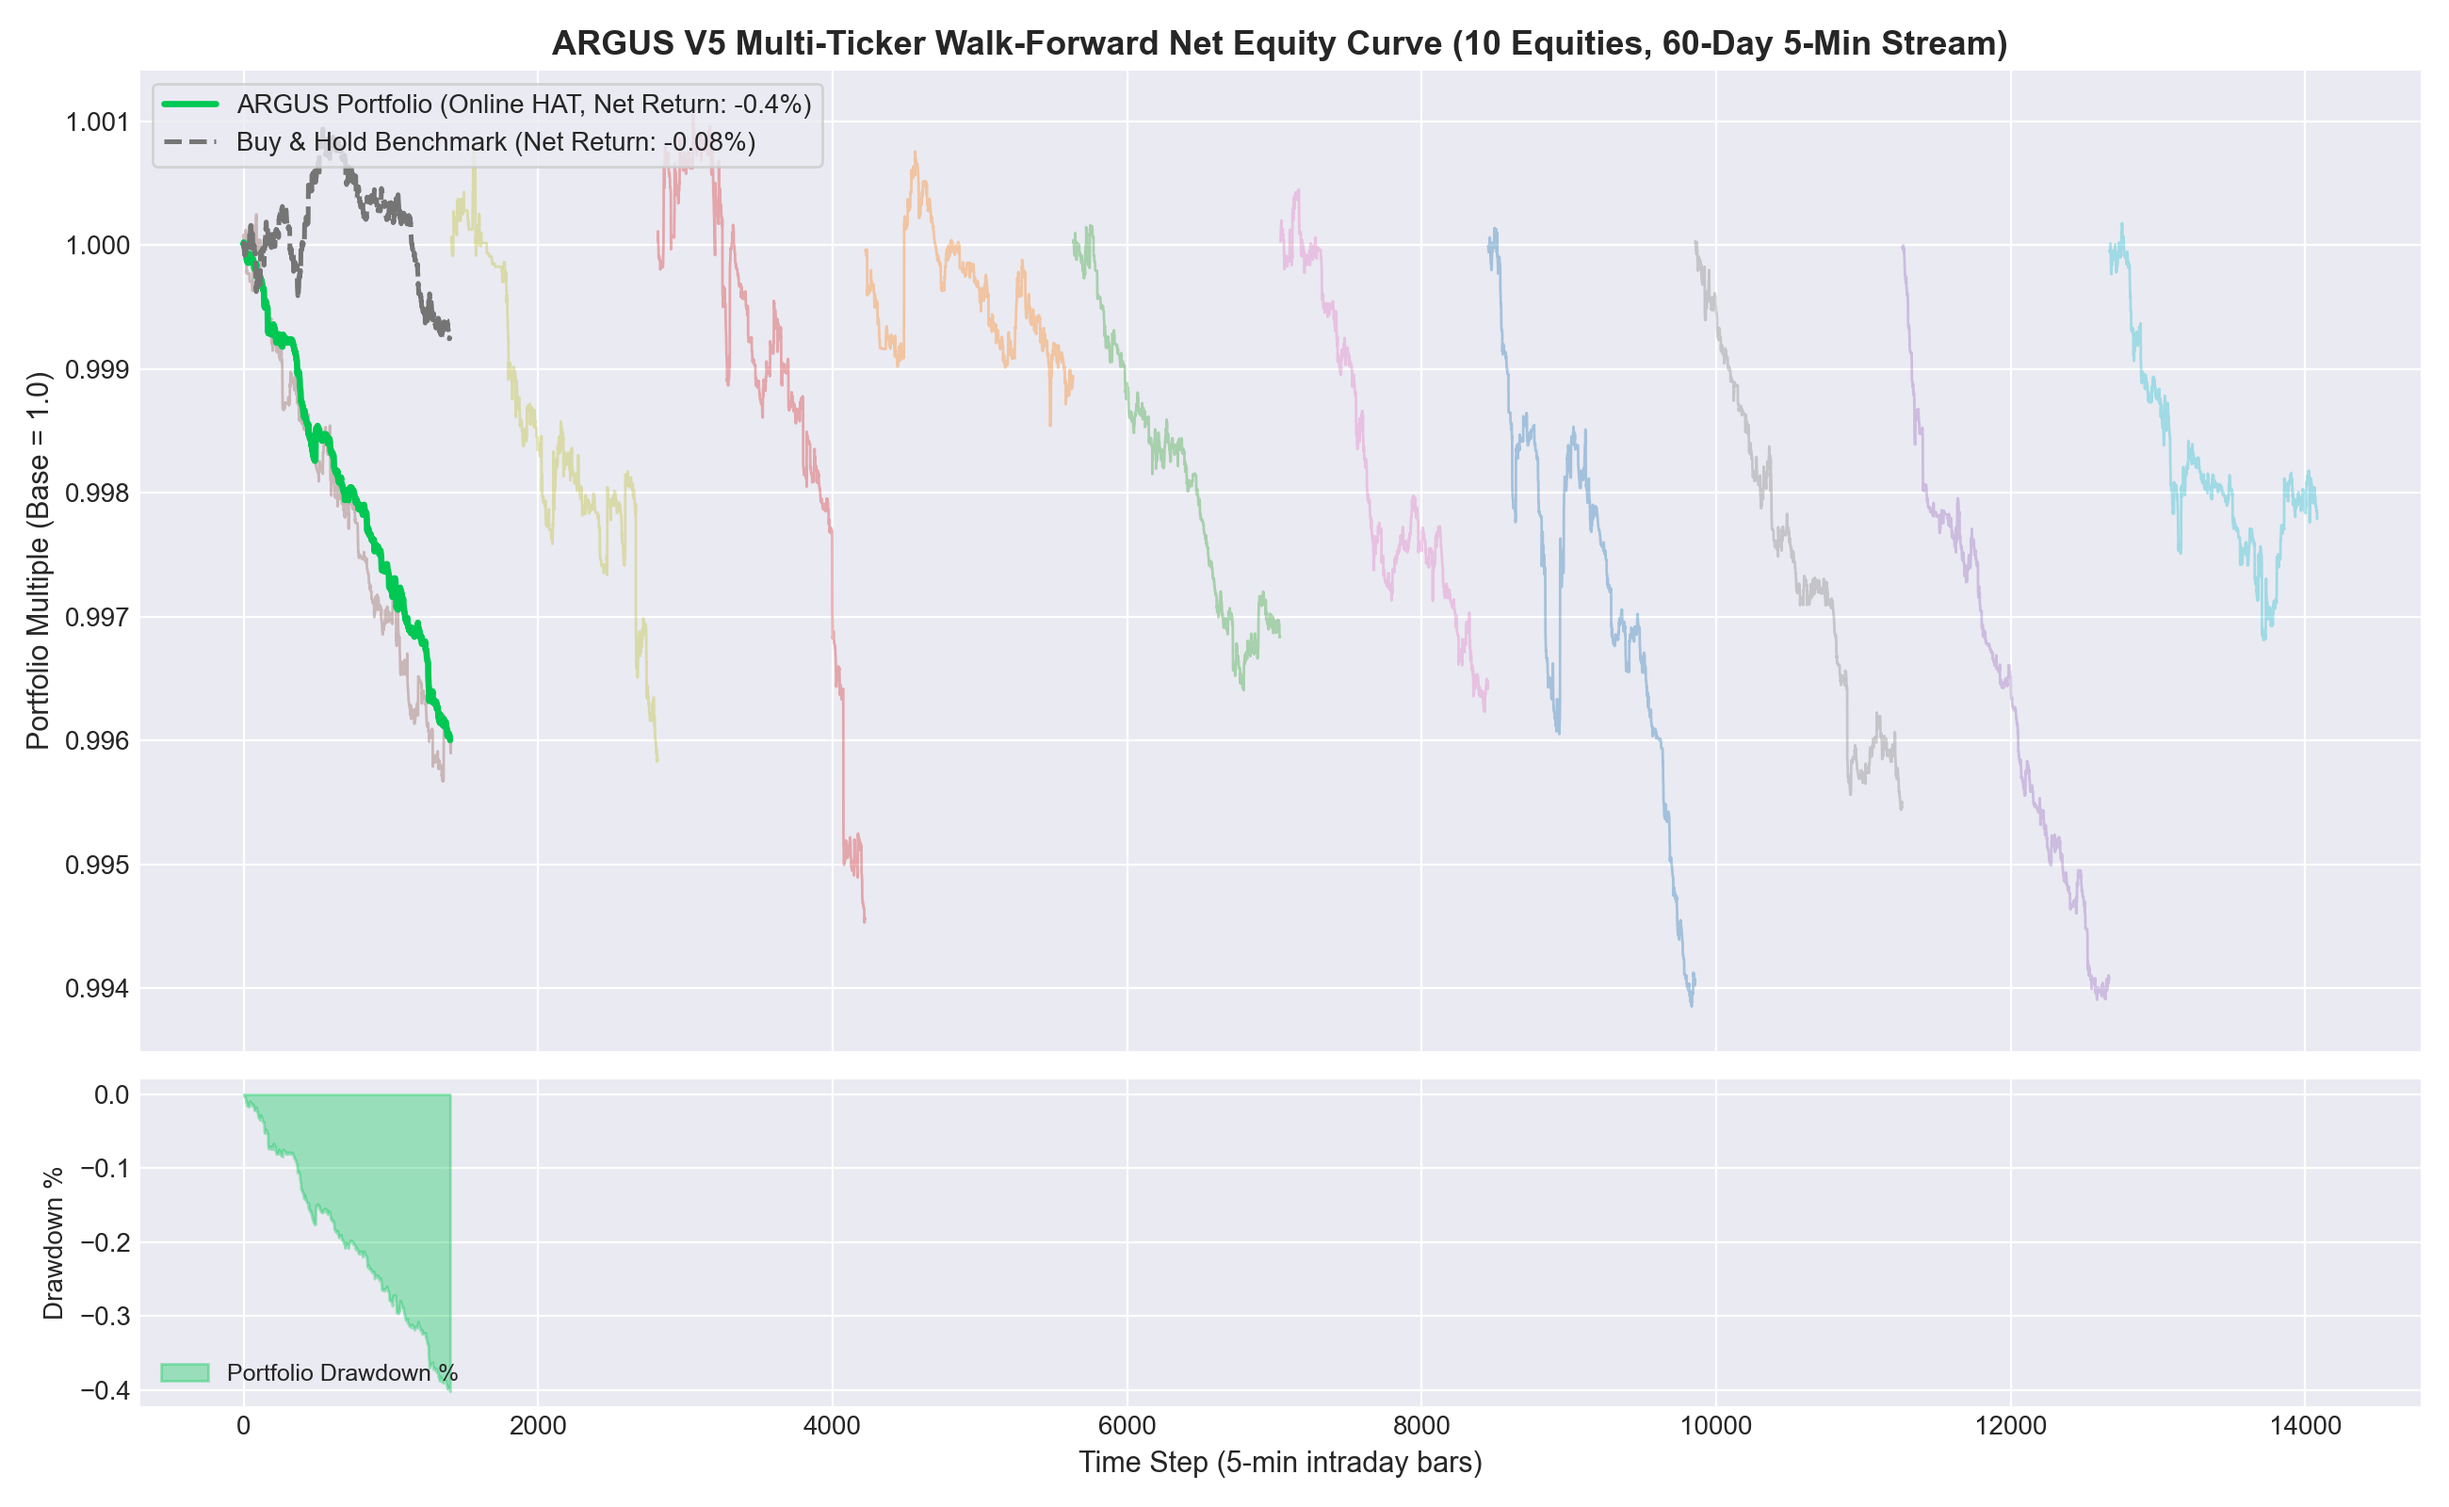
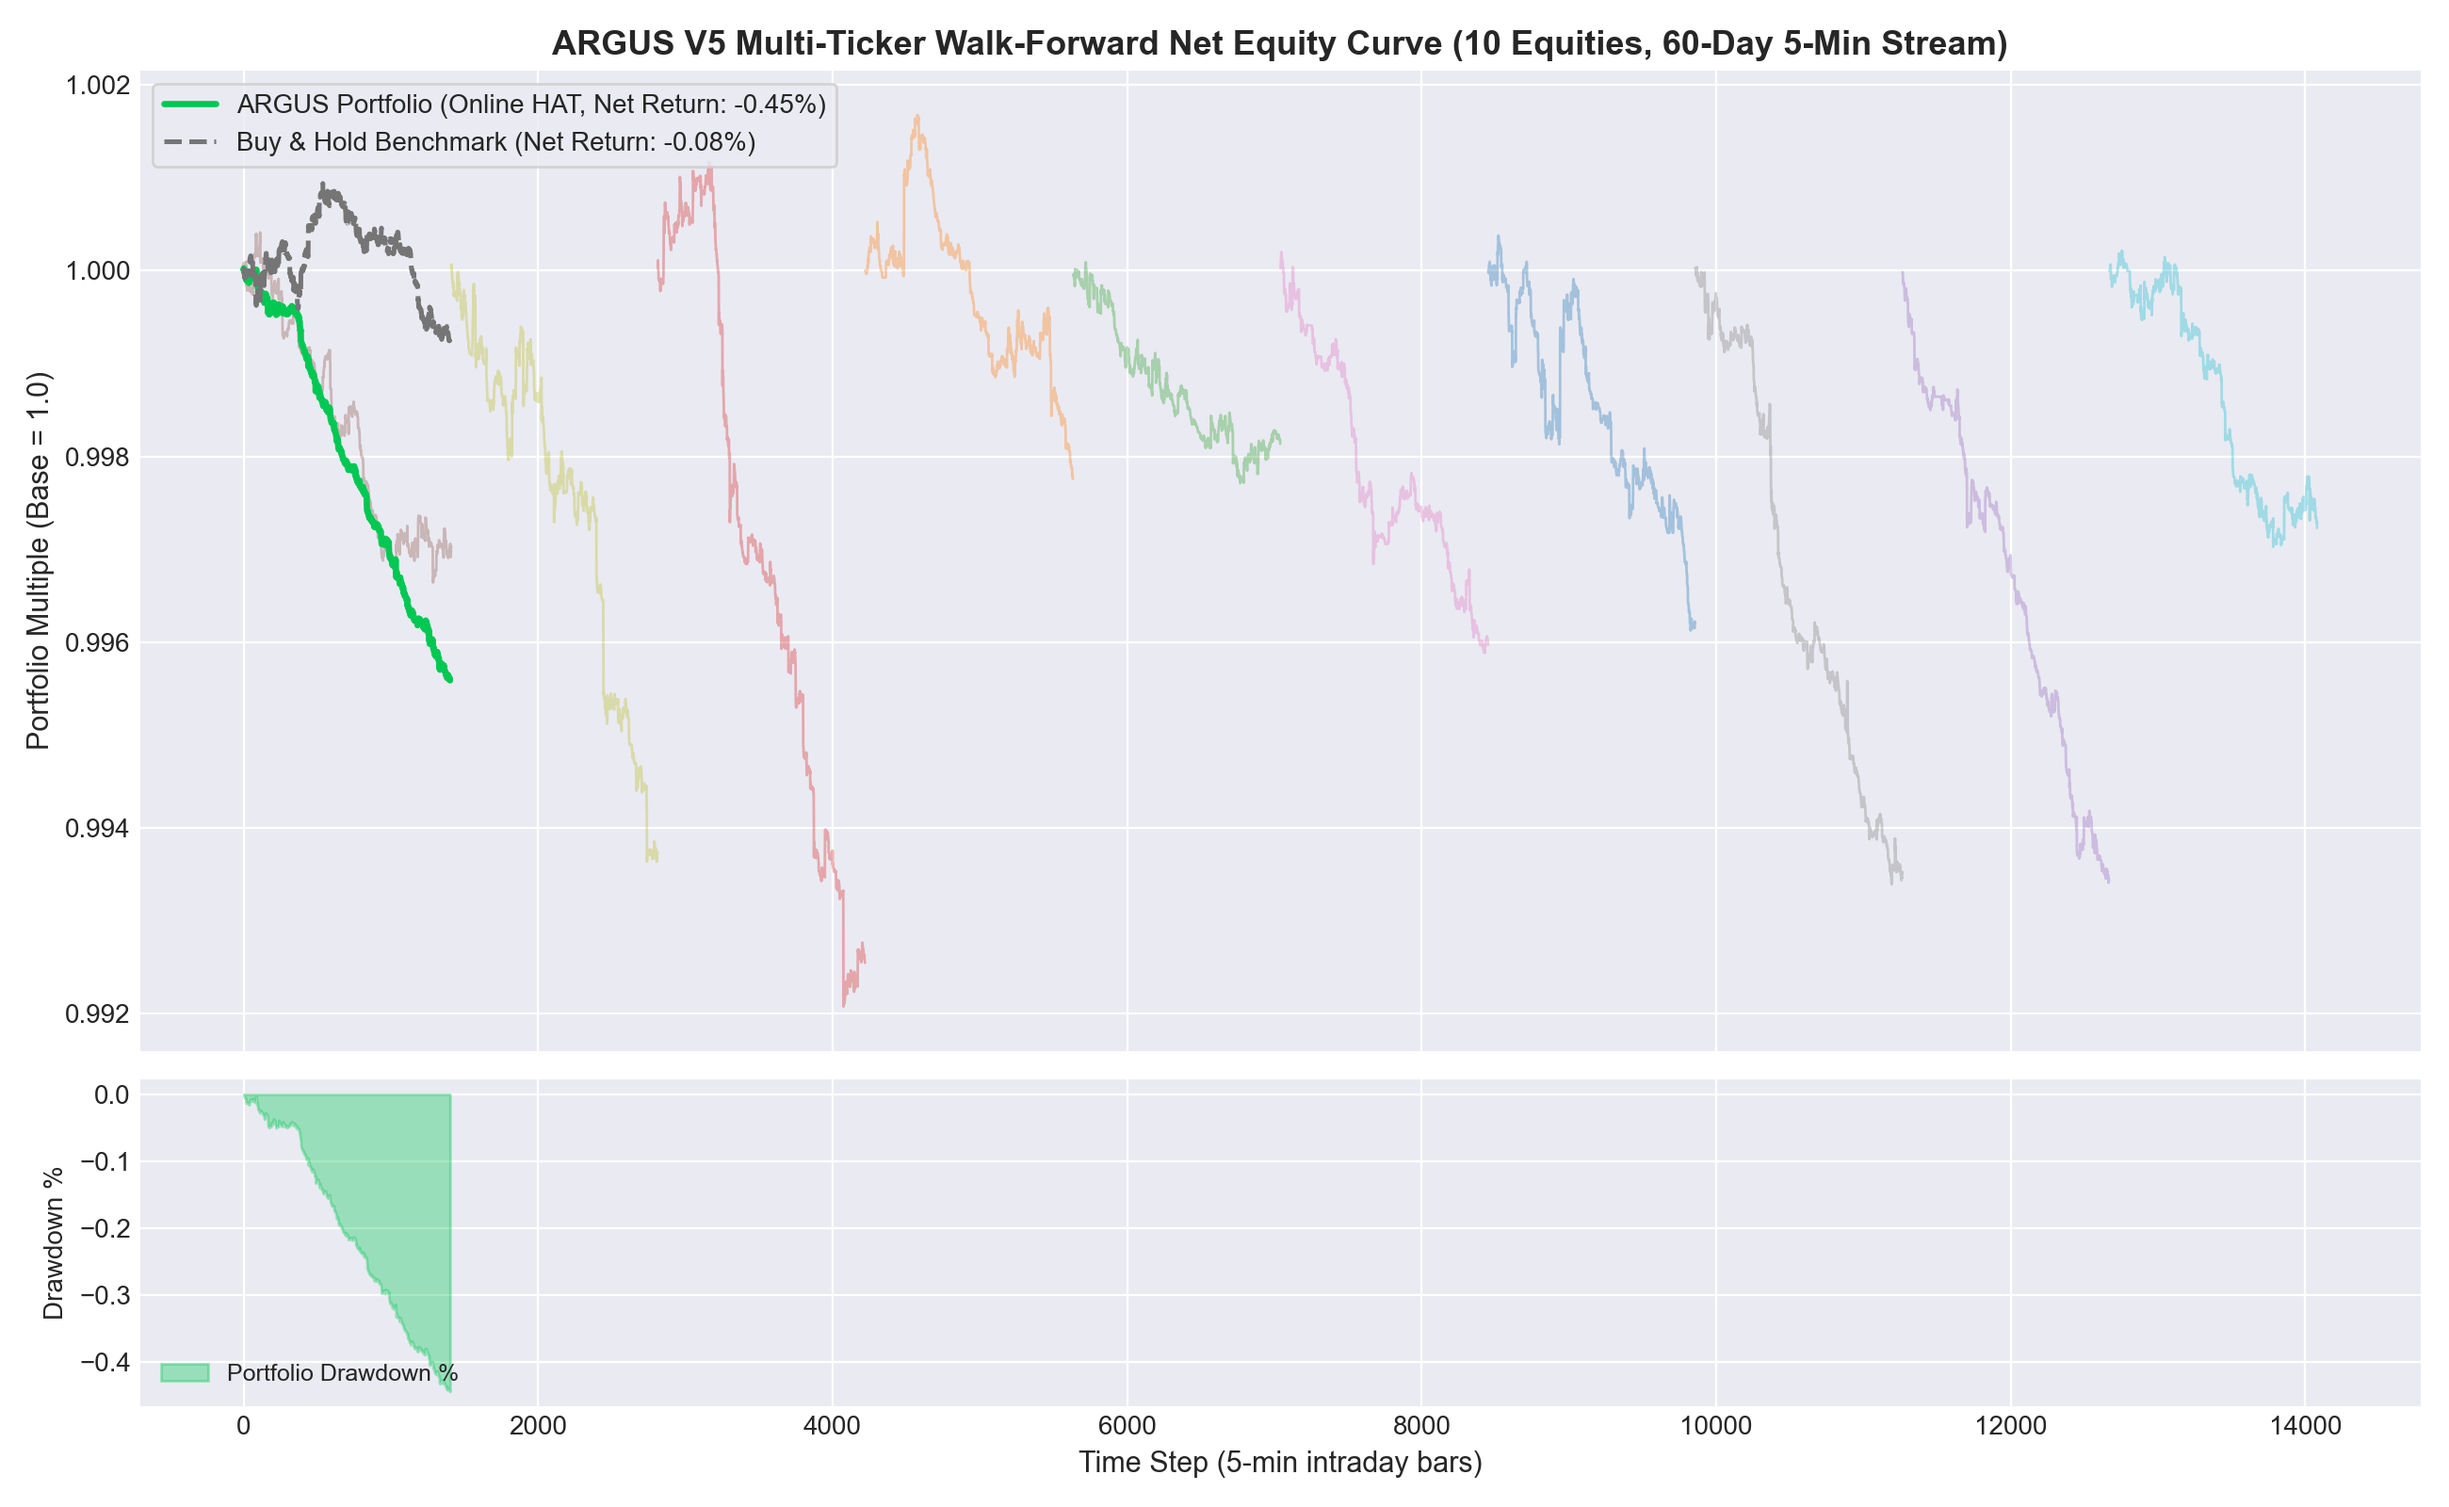
feat(features): add cross-sectional NIFTY 50 and sector-relative trend features

diff --git a/intelligence/features.py b/intelligence/features.py
@@ -17,6 +17,38 @@ import pandas as pd
 from data.feature_store import FeatureStore
 from data.multi_timeframe import fetch_daily_context
 
+TICKER_SECTORS = {
+    "RELIANCE.NS": "ENERGY",
+    "RELIANCE": "ENERGY",
+    "TCS.NS": "IT",
+    "TCS": "IT",
+    "INFY.NS": "IT",
+    "INFY": "IT",
+    "WIPRO.NS": "IT",
+    "WIPRO": "IT",
+    "HDFCBANK.NS": "BANKING",
+    "HDFCBANK": "BANKING",
+    "ICICIBANK.NS": "BANKING",
+    "ICICIBANK": "BANKING",
+    "SBIN.NS": "BANKING",
+    "SBIN": "BANKING",
+    "BAJFINANCE.NS": "NBFC",
+    "BAJFINANCE": "NBFC",
+    "SUNPHARMA.NS": "PHARMA",
+    "SUNPHARMA": "PHARMA",
+    "LT.NS": "INFRASTRUCTURE",
+    "LT": "INFRASTRUCTURE",
+}
+
+SECTOR_INDICES = {
+    "ENERGY": "^CNXENERGY",
+    "IT": "^CNXIT",
+    "BANKING": "^NSEBANK",
+    "NBFC": "^CNXFIN",
+    "PHARMA": "^CNXPHARMA",
+    "INFRASTRUCTURE": "^CNXINFRA",
+}
+
 
 def calculate_numeric_features(
     df: pd.DataFrame,
@@ -25,6 +57,8 @@ def calculate_numeric_features(
     feature_store: Optional[FeatureStore] = None,
     sector: Optional[str] = None,
     daily_df: Optional[pd.DataFrame] = None,
+    nifty_df: Optional[pd.DataFrame] = None,
+    sector_df: Optional[pd.DataFrame] = None,
 ) -> Tuple[Dict[str, float], str, str]:
     """
     Extracts continuous numeric features from OHLCV data up to asof_timestamp.
@@ -100,6 +134,92 @@ def calculate_numeric_features(
     ret_3 = safe_log_return(3)
     ret_5 = safe_log_return(5)
     ret_15 = safe_log_return(15)
+
+    # ── 1b. Cross-Sectional / Relative Market & Sector Returns ─────────────────
+    rel_nifty_ret_1 = 0.0
+    rel_nifty_ret_3 = 0.0
+    rel_nifty_ret_5 = 0.0
+    rel_nifty_ret_15 = 0.0
+    nifty_divergence_flag = 0.5
+
+    nifty_series = None
+    if nifty_df is not None:
+        nifty_series = nifty_df["Close"].astype(float) if "Close" in nifty_df.columns else None
+    else:
+        try:
+            from data.multi_timeframe import fetch_intraday_series
+            n_raw = fetch_intraday_series("^NSEI", period="60d", interval="15m")
+            if n_raw is not None and not n_raw.empty and "Close" in n_raw.columns:
+                nifty_series = n_raw["Close"].astype(float)
+        except Exception:
+            nifty_series = None
+
+    if nifty_series is not None and len(nifty_series) > 0:
+        if clean_df.index.tz is not None and nifty_series.index.tz is None:
+            nifty_series = nifty_series.tz_localize(clean_df.index.tz)
+        elif clean_df.index.tz is None and nifty_series.index.tz is not None:
+            nifty_series = nifty_series.tz_convert(None)
+
+        nifty_sub = nifty_series[nifty_series.index <= clean_df.index[-1]]
+        if len(nifty_sub) > 0:
+            n_curr = float(nifty_sub.iloc[-1])
+            def safe_nifty_log_ret(k: int) -> float:
+                if len(nifty_sub) > k and float(nifty_sub.iloc[-k-1]) > 0:
+                    return float(np.log(n_curr / float(nifty_sub.iloc[-k-1])))
+                return 0.0
+
+            r_n_1 = safe_nifty_log_ret(1)
+            r_n_3 = safe_nifty_log_ret(3)
+            r_n_5 = safe_nifty_log_ret(5)
+            r_n_15 = safe_nifty_log_ret(15)
+
+            rel_nifty_ret_1 = ret_1 - r_n_1
+            rel_nifty_ret_3 = ret_3 - r_n_3
+            rel_nifty_ret_5 = ret_5 - r_n_5
+            rel_nifty_ret_15 = ret_15 - r_n_15
+
+            if (ret_1 * r_n_1) < 0:
+                nifty_divergence_flag = 1.0  # Divergent (moving against index)
+            elif (ret_1 * r_n_1) > 0:
+                nifty_divergence_flag = 0.0  # Moving with index
+            else:
+                nifty_divergence_flag = 0.5  # Neutral / flat
+
+    sec_name = sector or TICKER_SECTORS.get(ticker.upper(), TICKER_SECTORS.get(ticker.upper().replace(".NS", ""), "MARKET"))
+    sec_sym = SECTOR_INDICES.get(sec_name, "^NSEI")
+
+    rel_sector_ret_1 = 0.0
+    rel_sector_ret_5 = 0.0
+    sec_series = None
+    if sector_df is not None:
+        sec_series = sector_df["Close"].astype(float) if "Close" in sector_df.columns else None
+    else:
+        try:
+            from data.multi_timeframe import fetch_intraday_series
+            s_raw = fetch_intraday_series(sec_sym, period="60d", interval="15m")
+            if s_raw is not None and not s_raw.empty and "Close" in s_raw.columns:
+                sec_series = s_raw["Close"].astype(float)
+        except Exception:
+            sec_series = None
+
+    if sec_series is not None and len(sec_series) > 0:
+        if clean_df.index.tz is not None and sec_series.index.tz is None:
+            sec_series = sec_series.tz_localize(clean_df.index.tz)
+        elif clean_df.index.tz is None and sec_series.index.tz is not None:
+            sec_series = sec_series.tz_convert(None)
+
+        sec_sub = sec_series[sec_series.index <= clean_df.index[-1]]
+        if len(sec_sub) > 0:
+            s_curr = float(sec_sub.iloc[-1])
+            def safe_sec_log_ret(k: int) -> float:
+                if len(sec_sub) > k and float(sec_sub.iloc[-k-1]) > 0:
+                    return float(np.log(s_curr / float(sec_sub.iloc[-k-1])))
+                return 0.0
+
+            r_s_1 = safe_sec_log_ret(1)
+            r_s_5 = safe_sec_log_ret(5)
+            rel_sector_ret_1 = ret_1 - r_s_1
+            rel_sector_ret_5 = ret_5 - r_s_5
 
     # ── 2. Volatility & Price Action Dynamics ─────────────────────────────────
     # True Range (TR) & Average True Range (ATR 14)
@@ -229,6 +349,13 @@ def calculate_numeric_features(
         "ret_3": round(ret_3, 6),
         "ret_5": round(ret_5, 6),
         "ret_15": round(ret_15, 6),
+        "rel_nifty_ret_1": round(rel_nifty_ret_1, 6),
+        "rel_nifty_ret_3": round(rel_nifty_ret_3, 6),
+        "rel_nifty_ret_5": round(rel_nifty_ret_5, 6),
+        "rel_nifty_ret_15": round(rel_nifty_ret_15, 6),
+        "rel_sector_ret_1": round(rel_sector_ret_1, 6),
+        "rel_sector_ret_5": round(rel_sector_ret_5, 6),
+        "nifty_divergence_flag": round(nifty_divergence_flag, 4),
         "norm_atr": round(norm_atr, 6),
         "rolling_std_10": round(rolling_std_10, 6),
         "body_pct": round(body_pct, 4),
@@ -279,6 +406,10 @@ def calculate_numeric_features(
 FAST_INTRADAY_FEATURES = [
     # Multi-lag log returns (on 15m candles: 15m, 45m, 75m, 225m momentum)
     "ret_1", "ret_3", "ret_5", "ret_15",
+    # Cross-sectional / Relative market & sector features
+    "rel_nifty_ret_1", "rel_nifty_ret_3", "rel_nifty_ret_5", "rel_nifty_ret_15",
+    "rel_sector_ret_1", "rel_sector_ret_5",
+    "nifty_divergence_flag",
     # Volatility & candle geometry
     "norm_atr", "rolling_std_10", "body_pct", "upper_wick_pct", "lower_wick_pct",
     # Oscillators

diff --git a/evaluation/backtest.py b/evaluation/backtest.py
@@ -141,12 +141,20 @@ class WalkForwardBacktest:
 
         # Pre-cache daily OHLCV bars for multi-timeframe context
         daily_df = get_cached_daily_bars(ticker)
+        from data.multi_timeframe import fetch_intraday_series
+        from intelligence.features import TICKER_SECTORS, SECTOR_INDICES
+        nifty_df = fetch_intraday_series("^NSEI", period="60d", interval="15m")
+        sec_name = TICKER_SECTORS.get(ticker.upper(), TICKER_SECTORS.get(ticker.upper().replace(".NS", ""), "MARKET"))
+        sec_sym = SECTOR_INDICES.get(sec_name, "^NSEI")
+        sector_df = fetch_intraday_series(sec_sym, period="60d", interval="15m")
 
         # Warm-up phase
         for i in range(25, warmup_bars):
             sub_df = clean_df.iloc[: i + 1]
             try:
-                feats, asof, daily_asof = calculate_numeric_features(sub_df, ticker, daily_df=daily_df)
+                feats, asof, daily_asof = calculate_numeric_features(
+                    sub_df, ticker, daily_df=daily_df, nifty_df=nifty_df, sector_df=sector_df
+                )
                 y_next = 1 if clean_df["Close"].iloc[i + 1] > clean_df["Close"].iloc[i] else 0
                 online_learner.learn_one(feats, y_next)
                 feature_history.append([feats[c] for c in FEATURE_COLUMNS])
@@ -168,7 +176,9 @@ class WalkForwardBacktest:
             curr_time = clean_df.index[t]
 
             # 1. Zero-Lookahead Feature Extraction (asof = t)
-            feats, asof, daily_asof = calculate_numeric_features(sub_df, ticker, daily_df=daily_df)
+            feats, asof, daily_asof = calculate_numeric_features(
+                sub_df, ticker, daily_df=daily_df, nifty_df=nifty_df, sector_df=sector_df
+            )
             feat_vec = [feats[c] for c in FEATURE_COLUMNS]
             feature_history.append(feat_vec)
 
@@ -612,12 +622,20 @@ class WalkForwardBacktest:
         clean_df = df.copy().sort_index()
         n = len(clean_df)
         daily_df = get_cached_daily_bars(ticker)
+        from data.multi_timeframe import fetch_intraday_series
+        from intelligence.features import TICKER_SECTORS, SECTOR_INDICES
+        nifty_df = fetch_intraday_series("^NSEI", period="60d", interval="15m")
+        sec_name = TICKER_SECTORS.get(ticker.upper(), TICKER_SECTORS.get(ticker.upper().replace(".NS", ""), "MARKET"))
+        sec_sym = SECTOR_INDICES.get(sec_name, "^NSEI")
+        sector_df = fetch_intraday_series(sec_sym, period="60d", interval="15m")
 
         feats_list = []
         y_true_list = []
         for t in range(25, n - 1):
             sub = clean_df.iloc[: t + 1]
-            feats, _, _ = calculate_numeric_features(sub, ticker, daily_df=daily_df)
+            feats, _, _ = calculate_numeric_features(
+                sub, ticker, daily_df=daily_df, nifty_df=nifty_df, sector_df=sector_df
+            )
             y = 1 if clean_df["Close"].iloc[t + 1] > clean_df["Close"].iloc[t] else 0
             feats_list.append(feats)
             y_true_list.append(y)

diff --git a/tests/test_v5_ml.py b/tests/test_v5_ml.py
@@ -75,7 +75,9 @@ def test_feature_engineering_strict_asof():
     feats, asof, daily_asof = calculate_numeric_features(df, ticker="TEST.NS", asof_timestamp=cutoff_time)
 
     assert len(feats) == len(FEATURE_COLUMNS)
-    assert len(feats) == 40
+    assert "rel_nifty_ret_1" in feats
+    assert "rel_sector_ret_1" in feats
+    assert "nifty_divergence_flag" in feats
     assert asof == cutoff_time.isoformat()
     assert daily_asof is not None
     # Verify daily context features exist
